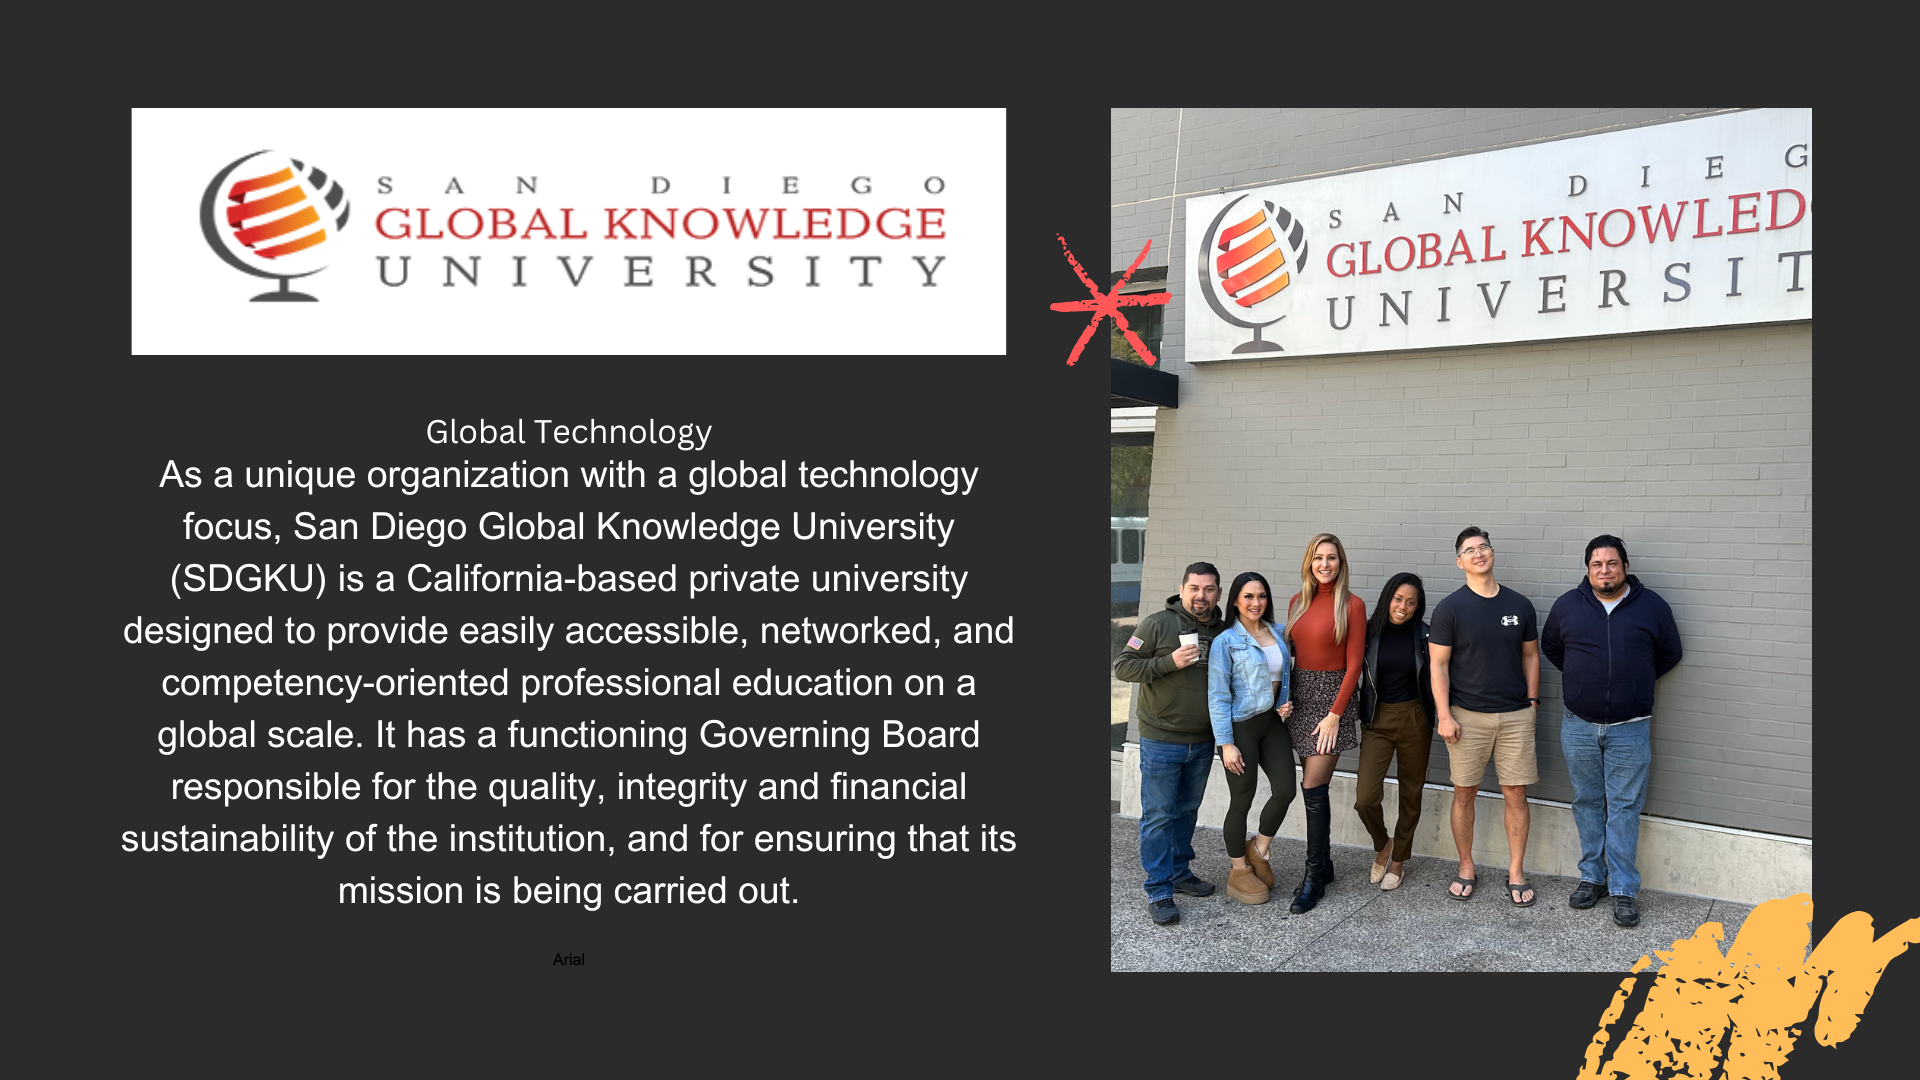
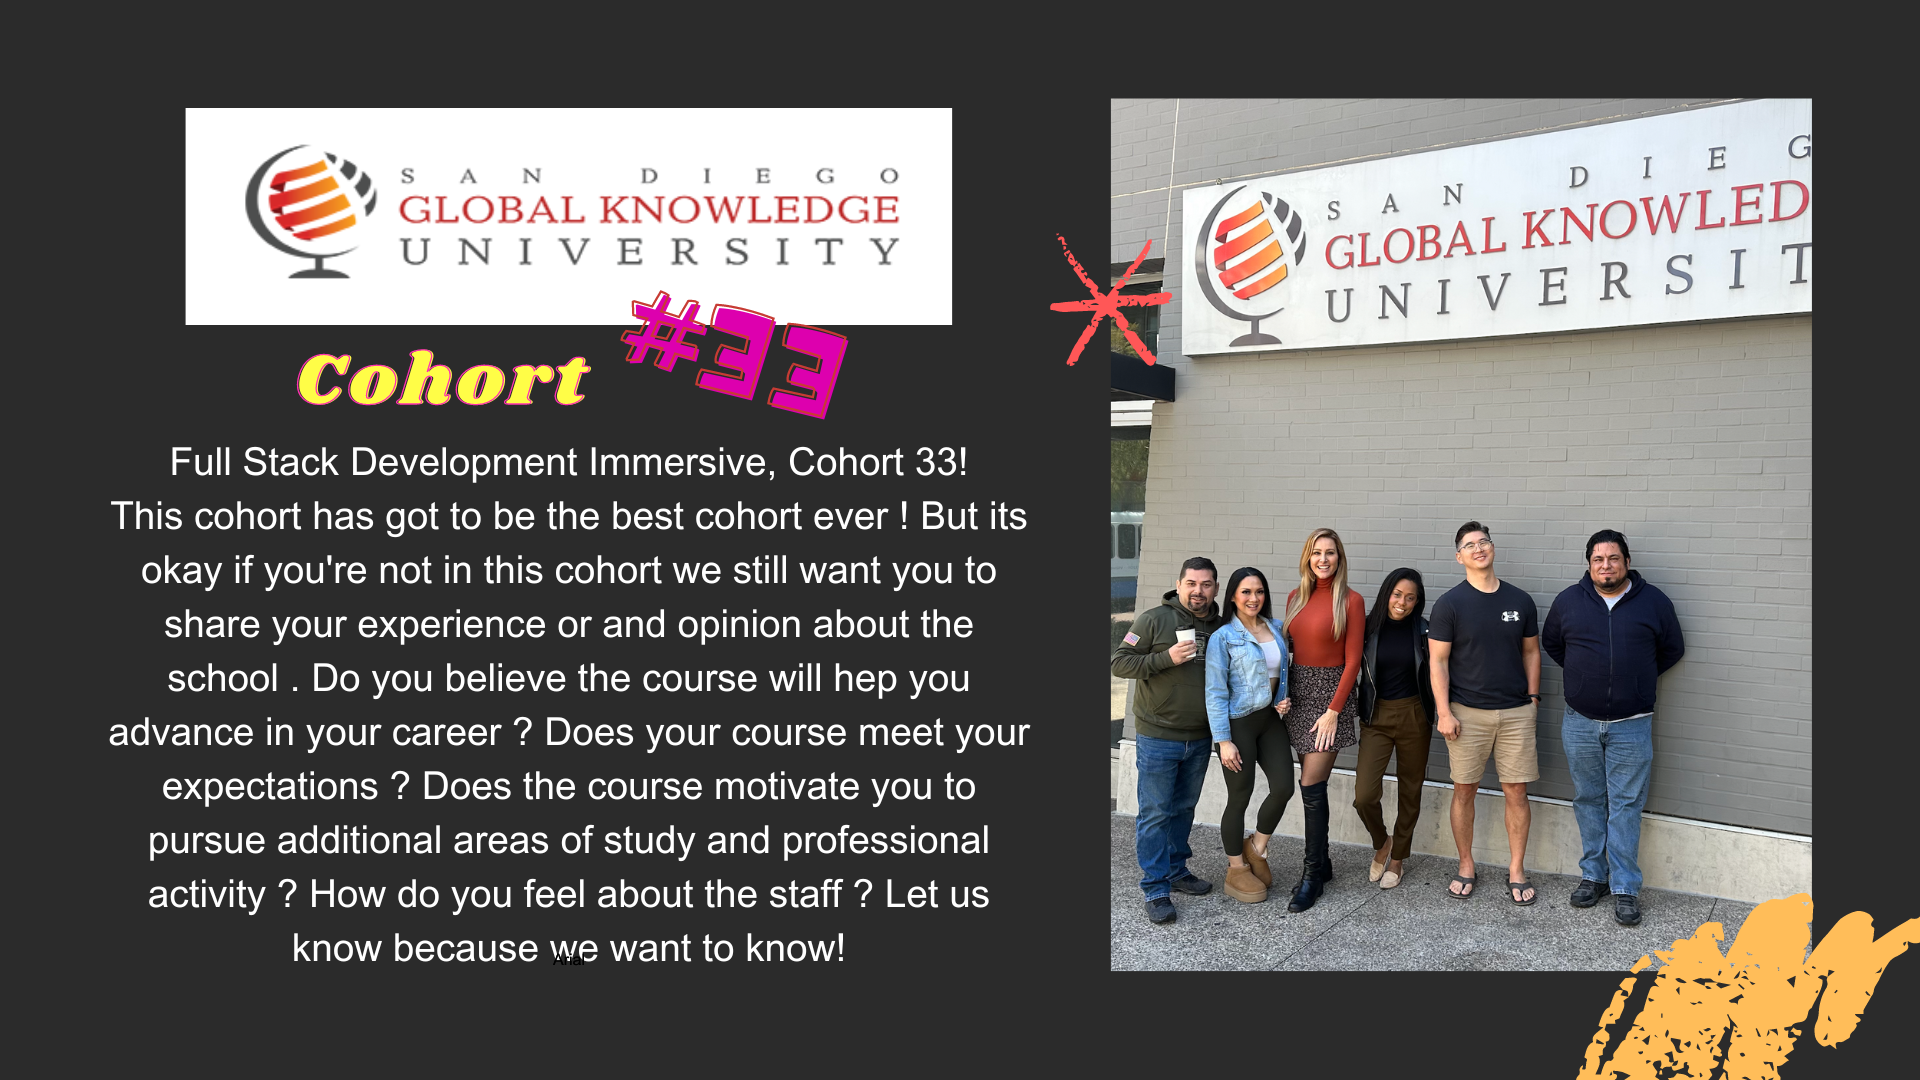
did more css

diff --git a/static/css/base.css b/static/css/base.css
@@ -4,45 +4,35 @@
 * {
     padding: 0; 
     margin: 0;
-    color:  #434242;
+    color:  black;
 }
 
 h1 {
     font-family: 'Bebas Neue', cursive;
     font-size: 35px;
-    color:    #434242;
+    color:   white;
     text-align: center;
     margin-top: 25px;
     margin-bottom: 25px; 
 }
 
 body{
-    background-color:#F0F0F0;
+    background-color:black;
 }
 
 
-/* ----------about.html paragraph ---------- */
+/* ----------about.html---------- */
 
-.about-p {
-    background-color: #F0EEED;
-    padding: 50px;
-    width: 70%;
-    font-family: 'Raleway', sans-serif;
-    font-size: 15px;
-    text-align: center;
-    margin: auto;
-    border-radius: 5px;
-}
 
-.aboutlogo { 
-    width: 250px;
+.logo { 
+    width: 83%;
     display: flex;
     justify-content: center;
     margin-left: auto; 
     margin-right: auto; 
     margin-bottom: 15px; 
+    border-radius: 10px;
 }
-
 
 /* ----------home.html---------- */
 
@@ -51,36 +41,15 @@ body{
     border-radius: 10px;
 }
 
-#carouselExampleCaptions {
-    width: 70%;
-    margin-left: auto;
-    margin-right: auto;
-    position: relative;
-    margin-top: 3%;
-}
-
-
-/* ----------home cards ----------*/
-.card {
-    border-radius: 5px;
-    overflow: hidden;     
-}
-
-.card1 {
-    border-radius: 5px;
-    overflow: hidden; 
-}
-
-
 main {
-    width: 100%;
-    display: flex;
-    flex-direction: row;
-    margin-right: auto;
-    margin-left: auto;
-    column-gap: 15px;
-    border-radius: 5px;
-}
+        width: 83%;
+        display: flex;
+        justify-content: center;
+        margin-left: auto; 
+        margin-right: auto; 
+        margin-top: 75px; 
+    }
+
     
 h4  {
     font-family: 'Bebas Neue', cursive;
@@ -92,6 +61,15 @@ h4  {
     padding: 2px; 
     }
 
+.card-list {
+    background-color: #F0F0F0;
+    border-radius: 5px;
+    padding: 5px; 
+    width: 83%;
+    margin-left: auto;
+    margin-right: auto;
+}
+
 
 .author {
     font-size: 12px;
@@ -99,6 +77,31 @@ h4  {
     font-weight: 600;
     text-align: center;
 }
+
+.card-title-list {
+    font-size: 18px;
+    font-family: 'Montserrat', serif;
+    font-weight: 600;
+    text-align: center;
+
+}
+
+.card-link {
+    color:  #434242;
+    font-family: 'Montserrat', serif;
+    font-size: 12px; 
+    text-decoration: none;
+}
+
+.card-link:hover {
+    border-style: solid;
+    border-color:  #434242;
+    border-width: 3px; 
+    padding: 3px; 
+    border-radius: 5px;
+    text-transform: uppercase;
+}
+
 
 h6 {
     color: #434242;
@@ -108,16 +111,7 @@ h6 {
     margin-right: auto; 
     text-transform: uppercase;
 }
-/* line 12 home.html  */
-#carouselExampleCaptions {
-    width: 75%;
 
-}
-/* line 20  home.html*/
-#topdivhome { 
-    margin-top: 50px; 
-    margin-bottom: 10px; 
-}
 
 
 
@@ -224,14 +218,14 @@ nav.navbar {
     display: flex;
     flex-direction: row;
     justify-content: center;
-    background-color: #EDDBC7;
+    background-color: #F0F0F0;
     height:40px;
     word-spacing: 10px;
 }
 
 .baselink {
     text-transform: uppercase;
-    background-color: #EDDBC7;
+    background-color: #F0F0F0;
     color:#434242;
     font-weight: 400;
     letter-spacing: 1px;
@@ -244,19 +238,19 @@ nav.navbar {
 }
 
 .baselink:hover {
-    box-shadow: inset 300px 0 0 0 #DFD3C3;
-    background-color: #DFD3C3;
+    box-shadow: inset 300px 0 0 0 #F45050;
+    background-color: #F45050;
     border-radius: 1px;
     color: black;
     font-weight: 600;
     border-radius: 3px;
 }
 
-#login-home:hover {
+#login-home:hover, #signup-home:hover{
     border-style: solid;
     border-color:  #434242;
     border-width: 3px; 
-    background-color: #EDDBC7;
+    background-color:  #EDDBC7;
 }
 
 #logout:hover {
@@ -270,8 +264,7 @@ nav.navbar {
     border-bottom-style: solid;
     border-bottom-width: 3px;
     width: fit-content;
-    box-shadow: inset 300px 0 0 0 #EDDBC7;
-    background-color: #EDDBC7;
+    box-shadow: inset 300px 0 0 0 #F45050;
 }
 
 /* ----------search---------- */
@@ -315,12 +308,10 @@ nav.navbar {
 
 /* ----------registration sign up form ---------- */
 #signup-form {
-    background-color: #EDDBC7;
+    background-color:#F0EEED;
     padding: 5px; 
-    width: 50%;
+    width: 100%;
     font-size: 12px;
-    /* text-align: center; */
-    margin: auto;
     font-family: 'Lato', sans-serif;
     border-radius: 5px;
 }
@@ -362,7 +353,7 @@ nav.navbar {
         background-color: #EDDBC7;
     }
 
-    #about, #lasvegas {
+    #about, #sdgku {
         display:none;
     }
 

diff --git a/templates/pages/home.html b/templates/pages/home.html
@@ -16,51 +16,29 @@
         <button type="button" data-bs-target="#carouselExampleCaptions" data-bs-slide-to="2" aria-label="Slide 3"></button>
     </div>
     
-    <div id="topdivhome" class="card text-left">
-        <div id="toptexthome" class="card-body">
-            <h5 class="card-title">Full Stack Development Immersive, Cohort 33</h5>
-
-            <p class="card-text">
-                This cohort has got to be the best cohort ever ! But its okay if you're not in this cohort we still want you to share your experience or and opinion about the school . Do you believe the course will hep you advance in your career ? Does your course meet your expectations ? Does the course motivate you to pursue additional areas of studyt and profestional activity ? How do you feel about the staff ? Let us know because we want to know! </p>
-        </div>
-        <div >
-        </div>
-    </div>
     
     <div class="carousel-inner">
 
         <div class="carousel-item active">
-                <img src="../static/images/firstpic1.png" class="d-block w-100" alt="...">
+                <img src="../static/images/firstpic.png" class="d-block w-100" alt="...">
                 <div class="card text-left">
                 </div>
                 <div >
                 </div>
-                </div>
         </div>
- 
+
         <div class="carousel-item">
-                <a href="https://www.instagram.com/p/BgdAZBnHVcD/?igshid=NzAzN2Q1NTE=">
-                    <img src="../static/images/secondpic.png" class="d-block w-100" alt="Gondola Ride , Venetian Las Vegas"></img>
+                
+                <img src="../static/images/secondpic.png" class="d-block w-100" alt="Gondola Ride , Venetian Las Vegas"></img>
                 </a>
                 <div class="card text-left">
-                    <div class="card-body">
-
-                    </div>
-                    <div >
-                    </div>
                 </div>
         </div>
         <div class="carousel-item">
-            <a href="https://www.youtube.com/watch?v=6xBQFWItK9I">
+    
                 <img src="../static/images/thirdpic.png" class="d-block w-100" alt="...">
-            </a>
-            <div class="card text-left">
-                <div class="card-body">
-
-                </div>
-                <div >
-                </div>
-            </div>
+                </a>
+        
     </div>
                 </div>
                     <button class="carousel-control-prev" type="button" data-bs-target="#carouselExampleCaptions" data-bs-slide="prev">

diff --git a/templates/pages/about.html b/templates/pages/about.html
@@ -8,10 +8,9 @@
 {% block content %}
 <h1>About Us</h1>
 <div class="aboutlogo">
-    <a class="linklogo" ><img class="logo" src="../static/images/forthpic.png"></a>
+    <a class="linklogo" ><img class="logo" src="../static/images/about.png"></a>
 </div>
 
-<p class="about-p"> We are Cohort 33. The best cohort that this course have ever had . We are from all over North America and all in a hybrid class. We only get to see each other once in a blue mmon. So we  want to connect with our fellow students and read about their experiences about our school. <br> <br>
-    Thank you for joining us. Let's enjoy sharing our stories!</p>
+
 
 {% endblock content %}
